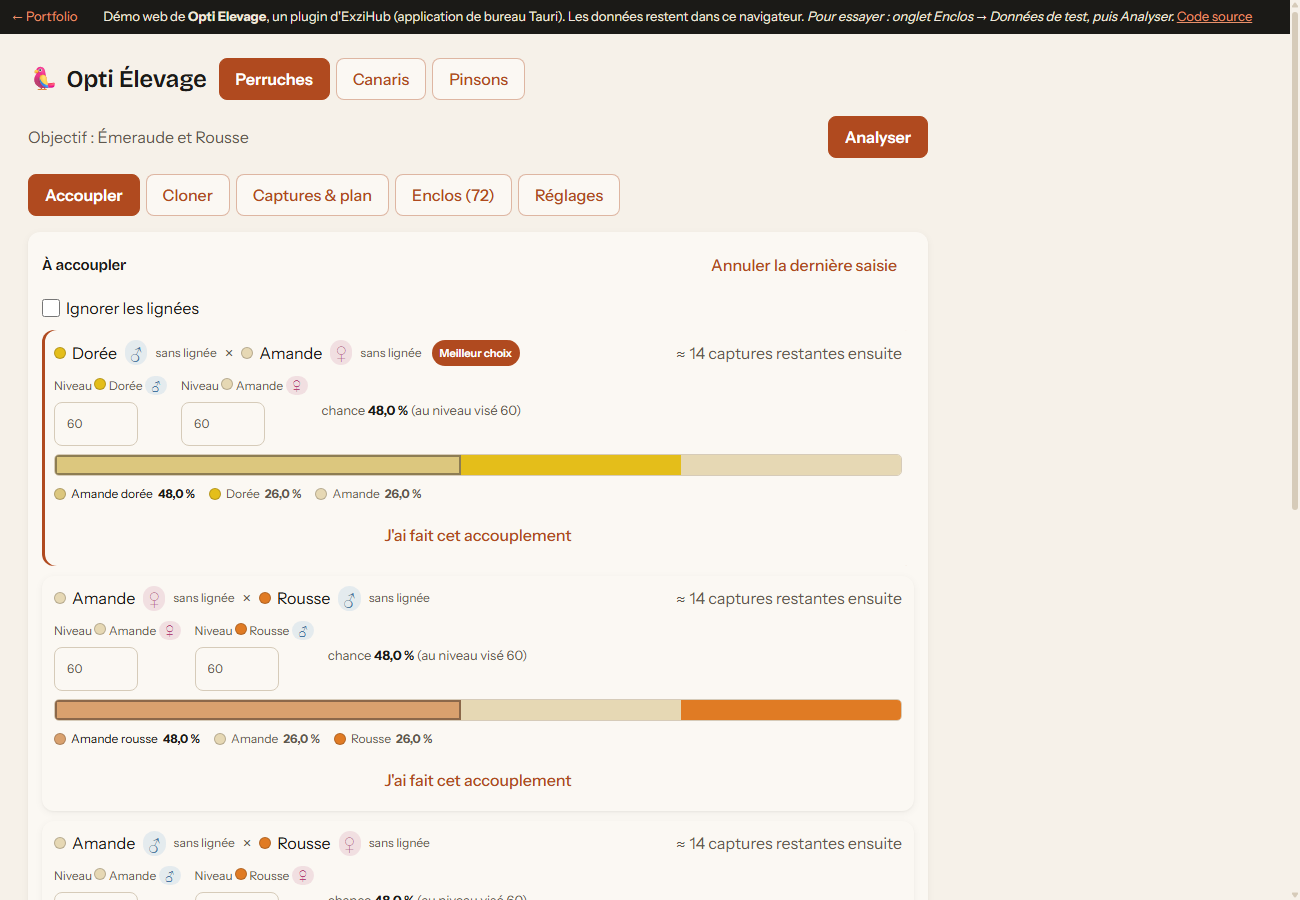
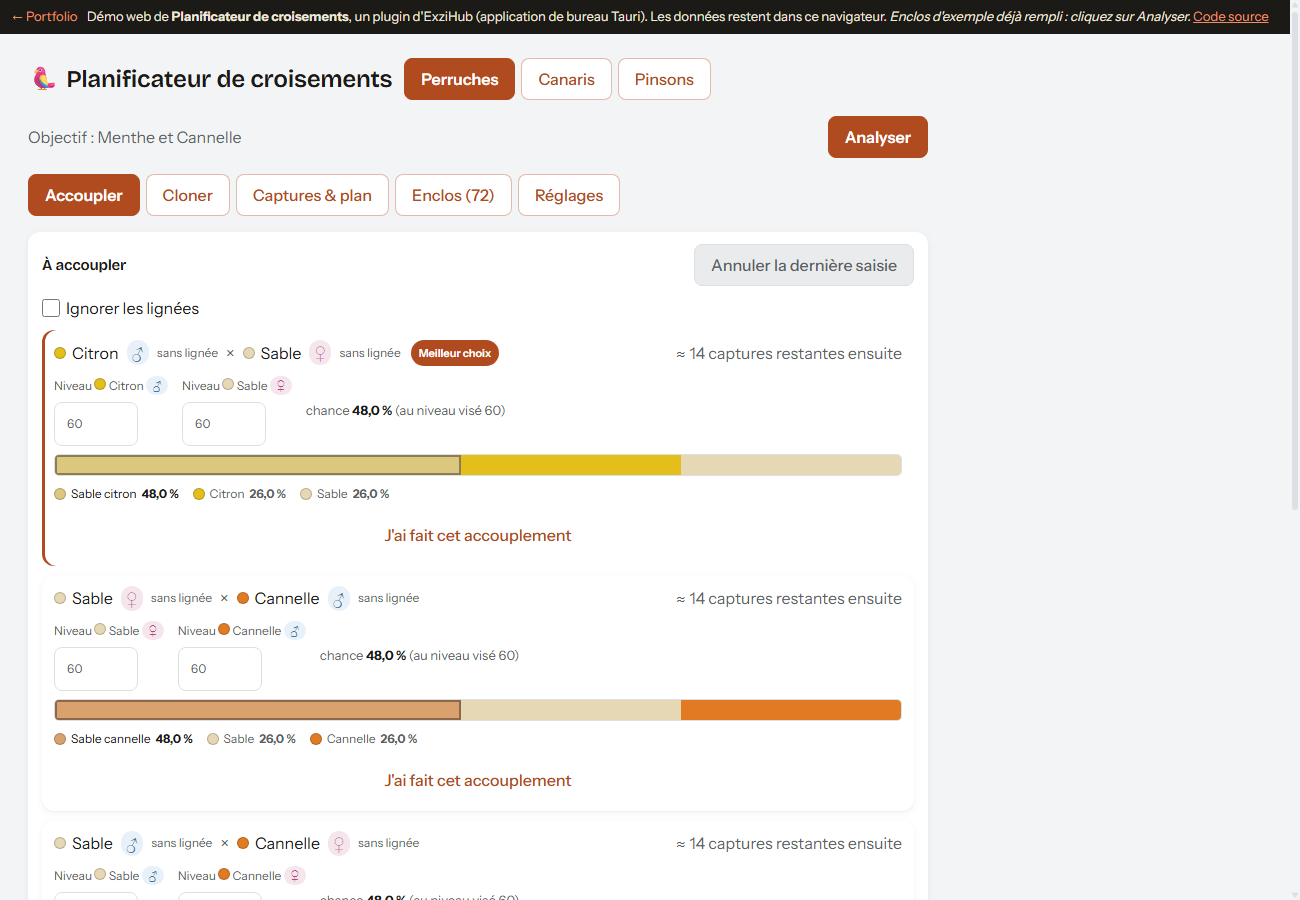
Planificateur de croisements : nouveau nom, couleurs neutres, enclos d'exemple prérempli

diff --git a/plugins/opti-elevage/index.html b/plugins/opti-elevage/index.html
@@ -3,17 +3,33 @@
   <head>
     <meta charset="UTF-8" />
     <meta name="viewport" content="width=device-width, initial-scale=1" />
-    <title>Opti Elevage (démo)</title>
+    <title>Planificateur de croisements (démo)</title>
     <link rel="stylesheet" href="./theme-vitrine.css" />
+    <link rel="icon" href="/favicon.svg" type="image/svg+xml" />
   </head>
   <body>
     <div class="bandeau-demo">
       <a class="retour" href="/">← Portfolio</a>
-      Démo web de <strong>Opti Elevage</strong>, un plugin d'ExziHub (application de bureau Tauri).
-      Les données restent dans ce navigateur. <em>Pour essayer : onglet Enclos → Données de test, puis Analyser.</em> <a href="https://github.com/Exzitech/opti-elevage">Code source</a>
+      Démo web de <strong>Planificateur de croisements</strong>, un plugin d'ExziHub (application de bureau Tauri).
+      Les données restent dans ce navigateur. <em>Enclos d'exemple déjà rempli : cliquez sur Analyser.</em> <a href="https://github.com/Exzitech/planificateur-croisements">Code source</a>
     </div>
     <div id="root"></div>
-    
+    <script>
+      // Donnees fictives de demo.json, posees a la premiere visite seulement.
+      (() => {
+        const demo = {"opti-elevage:fichier":"{\n  \"enclos:perruches\": [\n    {\n      \"couleur\": \"R\",\n      \"sexe\": 0,\n      \"fertile\": true,\n      \"niveau\": 1,\n      \"parents\": [],\n      \"quantite\": 6,\n      \"id\": \"gmum2xs910\",\n      \"enAttente\": false\n    },\n    {\n      \"couleur\": \"R\",\n      \"sexe\": 1,\n      \"fertile\": true,\n      \"niveau\": 1,\n      \"parents\": [],\n      \"quantite\": 6,\n      \"id\": \"gmum2xs911\",\n      \"enAttente\": false\n    },\n    {\n      \"couleur\": \"R\",\n      \"sexe\": 0,\n      \"fertile\": true,\n      \"enAttente\": true,\n      \"niveau\": 1,\n      \"parents\": [],\n      \"quantite\": 2,\n      \"id\": \"gmum2xs912\"\n    },\n    {\n      \"couleur\": \"R\",\n      \"sexe\": 1,\n      \"fertile\": true,\n      \"enAttente\": true,\n      \"niveau\": 1,\n      \"parents\": [],\n      \"quantite\": 2,\n      \"id\": \"gmum2xs913\"\n    },\n    {\n      \"couleur\": \"R\",\n      \"sexe\": 0,\n      \"fertile\": false,\n      \"niveau\": 1,\n      \"parents\": [],\n      \"quantite\": 3,\n      \"id\": \"gmum2xs914\"\n    },\n    {\n      \"couleur\": \"R\",\n      \"sexe\": 1,\n      \"fertile\": false,\n      \"niveau\": 1,\n      \"parents\": [],\n      \"quantite\": 3,\n      \"id\": \"gmum2xs915\"\n    },\n    {\n      \"couleur\": \"D\",\n      \"sexe\": 0,\n      \"fertile\": true,\n      \"niveau\": 1,\n      \"parents\": [],\n      \"quantite\": 7,\n      \"id\": \"gmum2xs916\",\n      \"enAttente\": false\n    },\n    {\n      \"couleur\": \"D\",\n      \"sexe\": 1,\n      \"fertile\": true,\n      \"niveau\": 1,\n      \"parents\": [],\n      \"quantite\": 7,\n      \"id\": \"gmum2xs917\",\n      \"enAttente\": false\n    },\n    {\n      \"couleur\": \"D\",\n      \"sexe\": 0,\n      \"fertile\": true,\n      \"enAttente\": true,\n      \"niveau\": 1,\n      \"parents\": [],\n      \"quantite\": 2,\n      \"id\": \"gmum2xs918\"\n    },\n    {\n      \"couleur\": \"D\",\n      \"sexe\": 1,\n      \"fertile\": true,\n      \"enAttente\": true,\n      \"niveau\": 1,\n      \"parents\": [],\n      \"quantite\": 2,\n      \"id\": \"gmum2xs919\"\n    },\n    {\n      \"couleur\": \"D\",\n      \"sexe\": 0,\n      \"fertile\": false,\n      \"niveau\": 1,\n      \"parents\": [],\n      \"quantite\": 3,\n      \"id\": \"gmum2xs91a\"\n    },\n    {\n      \"couleur\": \"D\",\n      \"sexe\": 1,\n      \"fertile\": false,\n      \"niveau\": 1,\n      \"parents\": [],\n      \"quantite\": 3,\n      \"id\": \"gmum2xs91b\"\n    },\n    {\n      \"couleur\": \"A\",\n      \"sexe\": 0,\n      \"fertile\": true,\n      \"niveau\": 1,\n      \"parents\": [],\n      \"quantite\": 8,\n      \"id\": \"gmum2xs91c\",\n      \"enAttente\": false\n    },\n    {\n      \"couleur\": \"A\",\n      \"sexe\": 1,\n      \"fertile\": true,\n      \"niveau\": 1,\n      \"parents\": [],\n      \"quantite\": 8,\n      \"id\": \"gmum2xs91d\",\n      \"enAttente\": false\n    },\n    {\n      \"couleur\": \"A\",\n      \"sexe\": 0,\n      \"fertile\": true,\n      \"enAttente\": true,\n      \"niveau\": 1,\n      \"parents\": [],\n      \"quantite\": 2,\n      \"id\": \"gmum2xs91e\"\n    },\n    {\n      \"couleur\": \"A\",\n      \"sexe\": 1,\n      \"fertile\": true,\n      \"enAttente\": true,\n      \"niveau\": 1,\n      \"parents\": [],\n      \"quantite\": 2,\n      \"id\": \"gmum2xs91f\"\n    },\n    {\n      \"couleur\": \"A\",\n      \"sexe\": 0,\n      \"fertile\": false,\n      \"niveau\": 1,\n      \"parents\": [],\n      \"quantite\": 3,\n      \"id\": \"gmum2xs91g\"\n    },\n    {\n      \"couleur\": \"A\",\n      \"sexe\": 1,\n      \"fertile\": false,\n      \"niveau\": 1,\n      \"parents\": [],\n      \"quantite\": 3,\n      \"id\": \"gmum2xs91h\"\n    }\n  ]\n}","sync:opti-elevage/elevage.json":"{\"texte\": \"{\\n  \\\"enclos:perruches\\\": [\\n    {\\n      \\\"couleur\\\": \\\"R\\\",\\n      \\\"sexe\\\": 0,\\n      \\\"fertile\\\": true,\\n      \\\"niveau\\\": 1,\\n      \\\"parents\\\": [],\\n      \\\"quantite\\\": 6,\\n      \\\"id\\\": \\\"gmum2xs910\\\",\\n      \\\"enAttente\\\": false\\n    },\\n    {\\n      \\\"couleur\\\": \\\"R\\\",\\n      \\\"sexe\\\": 1,\\n      \\\"fertile\\\": true,\\n      \\\"niveau\\\": 1,\\n      \\\"parents\\\": [],\\n      \\\"quantite\\\": 6,\\n      \\\"id\\\": \\\"gmum2xs911\\\",\\n      \\\"enAttente\\\": false\\n    },\\n    {\\n      \\\"couleur\\\": \\\"R\\\",\\n      \\\"sexe\\\": 0,\\n      \\\"fertile\\\": true,\\n      \\\"enAttente\\\": true,\\n      \\\"niveau\\\": 1,\\n      \\\"parents\\\": [],\\n      \\\"quantite\\\": 2,\\n      \\\"id\\\": \\\"gmum2xs912\\\"\\n    },\\n    {\\n      \\\"couleur\\\": \\\"R\\\",\\n      \\\"sexe\\\": 1,\\n      \\\"fertile\\\": true,\\n      \\\"enAttente\\\": true,\\n      \\\"niveau\\\": 1,\\n      \\\"parents\\\": [],\\n      \\\"quantite\\\": 2,\\n      \\\"id\\\": \\\"gmum2xs913\\\"\\n    },\\n    {\\n      \\\"couleur\\\": \\\"R\\\",\\n      \\\"sexe\\\": 0,\\n      \\\"fertile\\\": false,\\n      \\\"niveau\\\": 1,\\n      \\\"parents\\\": [],\\n      \\\"quantite\\\": 3,\\n      \\\"id\\\": \\\"gmum2xs914\\\"\\n    },\\n    {\\n      \\\"couleur\\\": \\\"R\\\",\\n      \\\"sexe\\\": 1,\\n      \\\"fertile\\\": false,\\n      \\\"niveau\\\": 1,\\n      \\\"parents\\\": [],\\n      \\\"quantite\\\": 3,\\n      \\\"id\\\": \\\"gmum2xs915\\\"\\n    },\\n    {\\n      \\\"couleur\\\": \\\"D\\\",\\n      \\\"sexe\\\": 0,\\n      \\\"fertile\\\": true,\\n      \\\"niveau\\\": 1,\\n      \\\"parents\\\": [],\\n      \\\"quantite\\\": 7,\\n      \\\"id\\\": \\\"gmum2xs916\\\",\\n      \\\"enAttente\\\": false\\n    },\\n    {\\n      \\\"couleur\\\": \\\"D\\\",\\n      \\\"sexe\\\": 1,\\n      \\\"fertile\\\": true,\\n      \\\"niveau\\\": 1,\\n      \\\"parents\\\": [],\\n      \\\"quantite\\\": 7,\\n      \\\"id\\\": \\\"gmum2xs917\\\",\\n      \\\"enAttente\\\": false\\n    },\\n    {\\n      \\\"couleur\\\": \\\"D\\\",\\n      \\\"sexe\\\": 0,\\n      \\\"fertile\\\": true,\\n      \\\"enAttente\\\": true,\\n      \\\"niveau\\\": 1,\\n      \\\"parents\\\": [],\\n      \\\"quantite\\\": 2,\\n      \\\"id\\\": \\\"gmum2xs918\\\"\\n    },\\n    {\\n      \\\"couleur\\\": \\\"D\\\",\\n      \\\"sexe\\\": 1,\\n      \\\"fertile\\\": true,\\n      \\\"enAttente\\\": true,\\n      \\\"niveau\\\": 1,\\n      \\\"parents\\\": [],\\n      \\\"quantite\\\": 2,\\n      \\\"id\\\": \\\"gmum2xs919\\\"\\n    },\\n    {\\n      \\\"couleur\\\": \\\"D\\\",\\n      \\\"sexe\\\": 0,\\n      \\\"fertile\\\": false,\\n      \\\"niveau\\\": 1,\\n      \\\"parents\\\": [],\\n      \\\"quantite\\\": 3,\\n      \\\"id\\\": \\\"gmum2xs91a\\\"\\n    },\\n    {\\n      \\\"couleur\\\": \\\"D\\\",\\n      \\\"sexe\\\": 1,\\n      \\\"fertile\\\": false,\\n      \\\"niveau\\\": 1,\\n      \\\"parents\\\": [],\\n      \\\"quantite\\\": 3,\\n      \\\"id\\\": \\\"gmum2xs91b\\\"\\n    },\\n    {\\n      \\\"couleur\\\": \\\"A\\\",\\n      \\\"sexe\\\": 0,\\n      \\\"fertile\\\": true,\\n      \\\"niveau\\\": 1,\\n      \\\"parents\\\": [],\\n      \\\"quantite\\\": 8,\\n      \\\"id\\\": \\\"gmum2xs91c\\\",\\n      \\\"enAttente\\\": false\\n    },\\n    {\\n      \\\"couleur\\\": \\\"A\\\",\\n      \\\"sexe\\\": 1,\\n      \\\"fertile\\\": true,\\n      \\\"niveau\\\": 1,\\n      \\\"parents\\\": [],\\n      \\\"quantite\\\": 8,\\n      \\\"id\\\": \\\"gmum2xs91d\\\",\\n      \\\"enAttente\\\": false\\n    },\\n    {\\n      \\\"couleur\\\": \\\"A\\\",\\n      \\\"sexe\\\": 0,\\n      \\\"fertile\\\": true,\\n      \\\"enAttente\\\": true,\\n      \\\"niveau\\\": 1,\\n      \\\"parents\\\": [],\\n      \\\"quantite\\\": 2,\\n      \\\"id\\\": \\\"gmum2xs91e\\\"\\n    },\\n    {\\n      \\\"couleur\\\": \\\"A\\\",\\n      \\\"sexe\\\": 1,\\n      \\\"fertile\\\": true,\\n      \\\"enAttente\\\": true,\\n      \\\"niveau\\\": 1,\\n      \\\"parents\\\": [],\\n      \\\"quantite\\\": 2,\\n      \\\"id\\\": \\\"gmum2xs91f\\\"\\n    },\\n    {\\n      \\\"couleur\\\": \\\"A\\\",\\n      \\\"sexe\\\": 0,\\n      \\\"fertile\\\": false,\\n      \\\"niveau\\\": 1,\\n      \\\"parents\\\": [],\\n      \\\"quantite\\\": 3,\\n      \\\"id\\\": \\\"gmum2xs91g\\\"\\n    },\\n    {\\n      \\\"couleur\\\": \\\"A\\\",\\n      \\\"sexe\\\": 1,\\n      \\\"fertile\\\": false,\\n      \\\"niveau\\\": 1,\\n      \\\"parents\\\": [],\\n      \\\"quantite\\\": 3,\\n      \\\"id\\\": \\\"gmum2xs91h\\\"\\n    }\\n  ]\\n}\", \"version\": \"1\"}"};
+        const d = new Date();
+        const mois = (m) => { const x = new Date(d.getFullYear(), d.getMonth() - m, 1); return x.getFullYear() + "-" + String(x.getMonth() + 1).padStart(2, "0"); };
+        const jetons = (t) => t.replaceAll("{{MOIS}}", mois(0)).replaceAll("{{MOIS-1}}", mois(1));
+        try {
+          if (localStorage.getItem("demo:posee:opti-elevage")) return;
+          for (const [cle, v] of Object.entries(demo)) {
+            localStorage.setItem(cle, jetons(typeof v === "string" ? v : JSON.stringify(v)));
+          }
+          localStorage.setItem("demo:posee:opti-elevage", "1");
+        } catch (e) { console.error("demo.json non applique", e); }
+      })();
+    </script>
     <script type="module" src="./src/dev.tsx"></script>
   </body>
 </html>

diff --git a/plugins/opti-elevage/tests/croisement.test.ts b/plugins/opti-elevage/tests/croisement.test.ts
@@ -7,15 +7,15 @@ import { config, bete, pourcent } from "./aide";
  * Ce sont elles qui calibrent gpF et gpDecay : si elles cassent, c'est le modele qui
  * a bouge, pas un detail d'implementation.
  */
-describe("capture du jeu : Pourpre niv.200 x Émeraude niv.1", () => {
-  // EmP « Émeraude et Pourpre », generation 10, telle que le jeu l'affiche.
+describe("capture du jeu : Cerise niv.200 x Menthe niv.1", () => {
+  // EmP « Menthe et Cerise », generation 10, telle que le jeu l'affiche.
   const avecEmP = (opt: number) => config("EmP = Em + P", ["EmP"], { levelPlan: 1, opt });
 
-  const pourpre = bete("P", { sexe: 1, niveau: 200 });
-  const emeraude = bete("Em", { sexe: 0, niveau: 1, parents: ["IT", "IvP"] });
+  const cerise = bete("P", { sexe: 1, niveau: 200 });
+  const menthe = bete("Em", { sexe: 0, niveau: 1, parents: ["IT", "IvP"] });
 
   it("sans Optimakina", () => {
-    const { list, P } = croisement(pourpre, emeraude, avecEmP(0));
+    const { list, P } = croisement(cerise, menthe, avecEmP(0));
     expect(P * 100).toBeCloseTo(60.15, 1);
     expect(pourcent(list, "EmP")).toBeCloseTo(60.15, 1);
     expect(pourcent(list, "P")).toBeCloseTo(19.92, 1);
@@ -25,7 +25,7 @@ describe("capture du jeu : Pourpre niv.200 x Émeraude niv.1", () => {
   });
 
   it("avec Optimakina (+10 %)", () => {
-    const { list, P } = croisement(pourpre, emeraude, avecEmP(0.1));
+    const { list, P } = croisement(cerise, menthe, avecEmP(0.1));
     expect(P * 100).toBeCloseTo(70.15, 1);
     expect(pourcent(list, "EmP")).toBeCloseTo(70.15, 1);
     expect(pourcent(list, "P")).toBeCloseTo(14.92, 1);
@@ -35,16 +35,16 @@ describe("capture du jeu : Pourpre niv.200 x Émeraude niv.1", () => {
   });
 
   it("la somme des probabilites vaut 1", () => {
-    const { list } = croisement(pourpre, emeraude, avecEmP(0));
+    const { list } = croisement(cerise, menthe, avecEmP(0));
     expect(list.reduce((s, o) => s + o.p, 0)).toBeCloseTo(1, 10);
   });
 });
 
-describe("capture du jeu : Rousse niv.65 (de Amande + Rousse) x Dorée niv.55", () => {
+describe("capture du jeu : Cannelle niv.65 (de Sable + Cannelle) x Citron niv.55", () => {
   const cfg = config("", [], { levelPlan: 1 });
-  const rousse = bete("R", { sexe: 0, niveau: 65, parents: ["A", "R"] });
-  const doree = bete("D", { sexe: 1, niveau: 55 });
-  const { list, cibles, partage } = croisement(rousse, doree, cfg);
+  const cannelle = bete("R", { sexe: 0, niveau: 65, parents: ["A", "R"] });
+  const citron = bete("D", { sexe: 1, niveau: 55 });
+  const { list, cibles, partage } = croisement(cannelle, citron, cfg);
 
   it("les deux couleurs cibles et les autres", () => {
     expect(pourcent(list, "DR")).toBeCloseTo(34.91, 1);
@@ -54,14 +54,14 @@ describe("capture du jeu : Rousse niv.65 (de Amande + Rousse) x Dorée niv.55", 
     expect(pourcent(list, "A")).toBeCloseTo(7.1, 1);
   });
 
-  it("la chance est partagee entre Doree rousse et Amande doree", () => {
+  it("la chance est partagee entre Citron cannelle et Sable citron", () => {
     expect(partage).toBe(true);
     expect([...cibles].sort()).toEqual(["AD", "DR"]);
   });
 });
 
 describe("croisement", () => {
-  it("TO x IT niveau 1 : Prune a 30,3 %", () => {
+  it("TO x IT niveau 1 : Figue a 30,3 %", () => {
     const cfg = config("", [], { levelPlan: 1 });
     const { list } = croisement(bete("TO", { sexe: 0 }), bete("IT", { sexe: 1 }), cfg);
     expect(list.reduce((s, o) => s + o.p, 0)).toBeCloseTo(1, 10);

diff --git a/plugins/opti-elevage/tests/simulation.test.ts b/plugins/opti-elevage/tests/simulation.test.ts
@@ -34,7 +34,7 @@ const PARTIES = 2000;
  * moteur a deplace les resultats, pour qu'on le fasse en connaissance de cause.
  */
 describe("simulation de reference (enclos vide, niveau visé 60)", () => {
-  it("objectif génération 10 : Émeraude et Rousse", () => {
+  it("objectif génération 10 : Menthe et Cannelle", () => {
     const cfg = config("EmR = Em + R", ["EmR"]);
     const r = jouer(cfg, ["EmR"], PARTIES);
     expect(r.parties).toBe(PARTIES);
@@ -53,13 +53,13 @@ describe("simulation de reference (enclos vide, niveau visé 60)", () => {
     expect(r.clonages).toBeLessThan(377 * 1.1);
   });
 
-  it("objectif génération 9 : prune et émeraude", () => {
+  it("objectif génération 9 : figue et menthe", () => {
     const r = jouer(config(), ["Pr", "Em"], PARTIES);
     expect(r.total).toBeGreaterThan(64);
     expect(r.total).toBeLessThan(76);
   });
 
-  it("objectif génération 9 : émeraude seule", () => {
+  it("objectif génération 9 : menthe seule", () => {
     const r = jouer(config(), ["Em"], PARTIES);
     expect(r.total).toBeGreaterThan(56);
     expect(r.total).toBeLessThan(68);
@@ -96,15 +96,15 @@ describe("cas limites", () => {
 
   it("cloner deux stériles de même couleur donne toujours cette couleur", () => {
     const cfg = config();
-    // Deux Émeraude steriles, et rien d'autre : la seule action possible est
-    // le clonage, qui doit produire une Émeraude a coup sur.
+    // Deux Menthe steriles, et rien d'autre : la seule action possible est
+    // le clonage, qui doit produire une Menthe a coup sur.
     const depart = deplier([groupe("Em", { quantite: 2, fertile: false })]);
     for (let i = 0; i < 200; i++) {
       const r = simuler(cfg, depart, ["Em"], null, mulberry32(i));
       // L'objectif est deja la (sterile) : aucune capture, aucun clonage force.
       expect(r?.parCouleur.R).toBe(0);
     }
-    // Force le besoin : objectif Prune, dont la recette exige des fertiles.
+    // Force le besoin : objectif Figue, dont la recette exige des fertiles.
     const r = simuler(cfg, depart, ["Em"], null, mulberry32(7));
     expect(r).not.toBeNull();
   });
@@ -114,7 +114,7 @@ describe("cas limites", () => {
     const r = simuler(cfg, deplier([]), ["DR"], null, mulberry32(1));
     expect(r).not.toBeNull();
     expect(Object.keys(r!.parCouleur).sort()).toEqual(["A", "D", "R"]);
-    // DR = R + D : deux captures au minimum, aucune Amande.
+    // DR = R + D : deux captures au minimum, aucune Sable.
     expect(r!.parCouleur.R + r!.parCouleur.D).toBeGreaterThanOrEqual(2);
   });
 });
@@ -132,7 +132,7 @@ describe("analyser", () => {
     expect(a.atteint).toBe(false);
     expect(a.baseline).toBeDefined();
     expect(a.candidats?.length).toBeGreaterThan(0);
-    // TO x IT donne directement la Prune : ce doit etre le meilleur choix.
+    // TO x IT donne directement la Figue : ce doit etre le meilleur choix.
     expect(a.candidats?.[0].enfant).toBe("Pr");
     // Classement croissant par captures moyennes.
     const totaux = a.candidats!.map((c) => c.resume.total.moyenne);

diff --git a/plugins/opti-elevage/src/engine/especes/perruches.ts b/plugins/opti-elevage/src/engine/especes/perruches.ts
@@ -3,27 +3,27 @@ import type { EspeceBrute } from "./types";
 
 /** Les 21 couleurs du jeu, dans l'ordre des generations. */
 const COULEURS: readonly Couleur[] = [
-  { id: "R", nom: "Rousse", hex: "#E07B24" },
-  { id: "D", nom: "Dorée", hex: "#E4BE1A" },
-  { id: "A", nom: "Amande", hex: "#E6D8B4" },
-  { id: "DR", nom: "Dorée rousse", hex: "#E9A02E" },
-  { id: "AD", nom: "Amande dorée", hex: "#DCC77E" },
-  { id: "AR", nom: "Amande rousse", hex: "#D9A16E" },
-  { id: "Eb", nom: "Ébène", hex: "#2B2320" },
-  { id: "In", nom: "Indigo", hex: "#4D2E93" },
-  { id: "EI", nom: "Ébène indigo", hex: "#2F2352" },
-  { id: "O", nom: "Orchidée", hex: "#D3A0E0" },
-  { id: "P", nom: "Pourpre", hex: "#C2183F" },
-  { id: "EO", nom: "Ébène orchidée", hex: "#B45FCE" },
-  { id: "OP", nom: "Orchidée pourpre", hex: "#A63B86" },
-  { id: "InP", nom: "Indigo pourpre", hex: "#6E2A9E" },
-  { id: "T", nom: "Turquoise", hex: "#2EC4BF" },
-  { id: "I", nom: "Ivoire", hex: "#F1EDE4" },
-  { id: "TO", nom: "Turquoise orchidée", hex: "#5CC9D6" },
-  { id: "IT", nom: "Ivoire turquoise", hex: "#BFE6E0" },
-  { id: "IvP", nom: "Ivoire pourpre", hex: "#E9A7B6" },
-  { id: "Pr", nom: "Prune", hex: "#B98BD0" },
-  { id: "Em", nom: "Émeraude", hex: "#31BD4E" },
+  { id: "R", nom: "Cannelle", hex: "#E07B24" },
+  { id: "D", nom: "Citron", hex: "#E4BE1A" },
+  { id: "A", nom: "Sable", hex: "#E6D8B4" },
+  { id: "DR", nom: "Citron cannelle", hex: "#E9A02E" },
+  { id: "AD", nom: "Sable citron", hex: "#DCC77E" },
+  { id: "AR", nom: "Sable cannelle", hex: "#D9A16E" },
+  { id: "Eb", nom: "Ardoise", hex: "#2B2320" },
+  { id: "In", nom: "Nuit", hex: "#4D2E93" },
+  { id: "EI", nom: "Ardoise nuit", hex: "#2F2352" },
+  { id: "O", nom: "Lilas", hex: "#D3A0E0" },
+  { id: "P", nom: "Cerise", hex: "#C2183F" },
+  { id: "EO", nom: "Ardoise lilas", hex: "#B45FCE" },
+  { id: "OP", nom: "Lilas cerise", hex: "#A63B86" },
+  { id: "InP", nom: "Nuit cerise", hex: "#6E2A9E" },
+  { id: "T", nom: "Lagon", hex: "#2EC4BF" },
+  { id: "I", nom: "Nacre", hex: "#F1EDE4" },
+  { id: "TO", nom: "Lagon lilas", hex: "#5CC9D6" },
+  { id: "IT", nom: "Nacre lagon", hex: "#BFE6E0" },
+  { id: "IvP", nom: "Nacre cerise", hex: "#E9A7B6" },
+  { id: "Pr", nom: "Figue", hex: "#B98BD0" },
+  { id: "Em", nom: "Menthe", hex: "#31BD4E" },
 ];
 
 /**

diff --git a/plugins/opti-elevage/src/ui/PlanificateurTool.tsx b/plugins/opti-elevage/src/ui/PlanificateurTool.tsx
@@ -51,8 +51,8 @@ function EspaceEspece({ espece }: { espece: Espece }) {
     [espece, objectif, texteRecettes],
   );
 
-  // L'objectif et l'enclos peuvent citer des bicolores libres (Ebene et
-  // Doree...) : on les declare pour que le moteur les connaisse, en plus du
+  // L'objectif et l'enclos peuvent citer des bicolores libres (Ardoise et
+  // Citron...) : on les declare pour que le moteur les connaisse, en plus du
   // vocabulaire propre a l'espece (ses bicolores intermediaires).
   const recettes = useMemo(() => {
     const utilisees = [...couleurs, ...enclos.groupes.flatMap((g) => [g.couleur, ...g.parents])];
@@ -242,7 +242,7 @@ function EspaceEspece({ espece }: { espece: Espece }) {
   );
 }
 
-export function OptiElevageTool() {
+export function PlanificateurTool() {
   // L'espece ouverte reste locale : c'est un choix d'affichage, pas une donnee.
   const [especeId, setEspeceId] = usePersistant("espece", ESPECES[0].id);
   const espece = ESPECES.find((e) => e.id === especeId) ?? ESPECES[0];
@@ -263,7 +263,7 @@ function Ecran({ espece, setEspeceId }: { espece: Espece; setEspeceId: (id: stri
   if (!f.dossier) {
     return (
       <div className="dd">
-        <header className="dd-entete"><h2>{espece.emoji} Opti Élevage</h2></header>
+        <header className="dd-entete"><h2>{espece.emoji} Planificateur de croisements</h2></header>
         <p className="hint">
           Choisis un espace Nextcloud : ton enclos et tes objectifs te suivent d'un appareil a l'autre.
         </p>
@@ -275,7 +275,7 @@ function Ecran({ espece, setEspeceId }: { espece: Espece; setEspeceId: (id: stri
   return (
     <div className="dd">
       <header className="dd-entete">
-        <h2>{espece.emoji} Opti Élevage</h2>
+        <h2>{espece.emoji} Planificateur de croisements</h2>
         <div className="dd-onglets" role="group" aria-label="Espèce">
           {ESPECES.map((e) => (
             <button

diff --git a/plugins/opti-elevage/src/engine/especes/canaris.ts b/plugins/opti-elevage/src/engine/especes/canaris.ts
@@ -10,17 +10,17 @@ import type { EspeceBrute } from "./types";
  * a verifier en jeu.
  */
 const COULEURS: readonly Couleur[] = [
-  { id: "Eb", nom: "Ébène", hex: "#2B2320" },
-  { id: "In", nom: "Indigo", hex: "#4D2E93" },
-  { id: "Po", nom: "Pourpre", hex: "#C2183F" },
-  { id: "Or", nom: "Orchidée", hex: "#D3A0E0" },
-  { id: "Do", nom: "Doré", hex: "#E4BE1A" },
-  { id: "Ro", nom: "Roux", hex: "#E07B24" },
-  { id: "Am", nom: "Amande", hex: "#E6D8B4" },
-  { id: "Iv", nom: "Ivoire", hex: "#F1EDE4" },
-  { id: "Tu", nom: "Turquoise", hex: "#2EC4BF" },
-  { id: "Pr", nom: "Prune", hex: "#B98BD0" },
-  { id: "Em", nom: "Émeraude", hex: "#31BD4E" },
+  { id: "Eb", nom: "Ardoise", hex: "#2B2320" },
+  { id: "In", nom: "Nuit", hex: "#4D2E93" },
+  { id: "Po", nom: "Cerise", hex: "#C2183F" },
+  { id: "Or", nom: "Lilas", hex: "#D3A0E0" },
+  { id: "Do", nom: "Citron", hex: "#E4BE1A" },
+  { id: "Ro", nom: "Cannelle", hex: "#E07B24" },
+  { id: "Am", nom: "Sable", hex: "#E6D8B4" },
+  { id: "Iv", nom: "Nacre", hex: "#F1EDE4" },
+  { id: "Tu", nom: "Lagon", hex: "#2EC4BF" },
+  { id: "Pr", nom: "Figue", hex: "#B98BD0" },
+  { id: "Em", nom: "Menthe", hex: "#31BD4E" },
   { id: "Ab", nom: "Ambre", hex: "#C68A1E" },
   { id: "Co", nom: "Corail", hex: "#FF6F59" },
   { id: "Az", nom: "Azur", hex: "#2E7FE0" },
@@ -35,7 +35,7 @@ const COULEURS: readonly Couleur[] = [
  *
  * Seuls les monocolores de generation 3 et plus ont une recette propre ;
  * chacune n'a ici qu'UN des plusieurs croisements possibles listes par le
- * jeu (ex. Roux : 6 combinaisons valables, une seule retenue) : a verifier
+ * jeu (ex. Cannelle : 6 combinaisons valables, une seule retenue) : a verifier
  * en jeu, et modifiable dans les reglages comme pour les Perruches.
  */
 const RECETTES_DEFAUT = `PoDo = Po + Do

diff --git a/plugins/opti-elevage/src/engine/especes/pinsons.ts b/plugins/opti-elevage/src/engine/especes/pinsons.ts
@@ -9,17 +9,17 @@ import type { EspeceBrute } from "./types";
  * Pinsons : hex choisi arbitrairement, a verifier en jeu.
  */
 const COULEURS: readonly Couleur[] = [
-  { id: "Eb", nom: "Ébène", hex: "#2B2320" },
-  { id: "In", nom: "Indigo", hex: "#4D2E93" },
-  { id: "Po", nom: "Pourpre", hex: "#C2183F" },
-  { id: "Or", nom: "Orchidée", hex: "#D3A0E0" },
-  { id: "Ro", nom: "Roux", hex: "#E07B24" },
-  { id: "Am", nom: "Amande", hex: "#E6D8B4" },
-  { id: "Iv", nom: "Ivoire", hex: "#F1EDE4" },
-  { id: "Tu", nom: "Turquoise", hex: "#2EC4BF" },
-  { id: "Pr", nom: "Prune", hex: "#B98BD0" },
-  { id: "Em", nom: "Émeraude", hex: "#31BD4E" },
-  { id: "Do", nom: "Doré", hex: "#E4BE1A" },
+  { id: "Eb", nom: "Ardoise", hex: "#2B2320" },
+  { id: "In", nom: "Nuit", hex: "#4D2E93" },
+  { id: "Po", nom: "Cerise", hex: "#C2183F" },
+  { id: "Or", nom: "Lilas", hex: "#D3A0E0" },
+  { id: "Ro", nom: "Cannelle", hex: "#E07B24" },
+  { id: "Am", nom: "Sable", hex: "#E6D8B4" },
+  { id: "Iv", nom: "Nacre", hex: "#F1EDE4" },
+  { id: "Tu", nom: "Lagon", hex: "#2EC4BF" },
+  { id: "Pr", nom: "Figue", hex: "#B98BD0" },
+  { id: "Em", nom: "Menthe", hex: "#31BD4E" },
+  { id: "Do", nom: "Citron", hex: "#E4BE1A" },
   { id: "Ja", nom: "Jade", hex: "#29A876" },
   { id: "Ru", nom: "Rubis", hex: "#9E1030" },
   { id: "Sa", nom: "Saphir", hex: "#2F5FA8" },

diff --git a/plugins/opti-elevage/tests/enclos.test.ts b/plugins/opti-elevage/tests/enclos.test.ts
@@ -6,7 +6,7 @@ import { groupe } from "./aide";
 
 /**
  * Reproduit ce que fait le store quand on precise le niveau d'une bete d'un
- * groupe : la detacher sans toucher aux autres. Savoir qu'une rousse est
+ * groupe : la detacher sans toucher aux autres. Savoir qu'une cannelle est
  * niveau 120 ne dit rien des vingt-neuf autres.
  */
 function preciserNiveau(liste: Groupe[], id: string, niveau: number): Groupe[] {
@@ -54,7 +54,7 @@ describe("préciser le niveau d'une perruche", () => {
 
 describe("saisie rapide", () => {
   it("ajoute des groupes sans lignée, un par couleur et par état", () => {
-    // Ce que produit la grille pour « 28 rousses mâles fertiles, 2 femelles stériles ».
+    // Ce que produit la grille pour « 28 cannelle mâles fertiles, 2 femelles stériles ».
     const saisis = [
       { couleur: "R", sexe: 0 as const, fertile: true, niveau: 1, parents: [], quantite: 28 },
       { couleur: "R", sexe: 1 as const, fertile: false, niveau: 1, parents: [], quantite: 2 },

diff --git a/plugins/opti-elevage/src/engine/croisement.ts b/plugins/opti-elevage/src/engine/croisement.ts
@@ -16,10 +16,10 @@ import type { Config, Couleur, CouleurId, Croisement, Bete } from "./types";
  *  - Sinon (1 - P), le bebe reprend une couleur de la lignee de l'un des deux
  *    parents, a parts egales entre eux, au prorata des poids.
  *
- * Capture 1 : Rousse niv. 65 (de Amande + Rousse) x Doree niv. 55 : Doree et
- * Rousse 34,91 %, Amande et Doree 13,09 %, Rousse 18,91 %, Doree 25,99 %,
- * Amande 7,1 %  ->  r = 0,6 en generation 1.
- * Capture 2 : Pourpre niv. 200 x Emeraude niv. 1 (de IT + IvP) : r = 0,1335 en
+ * Capture 1 : Cannelle niv. 65 (de Sable + Cannelle) x Citron niv. 55 : Citron et
+ * Cannelle 34,91 %, Sable et Citron 13,09 %, Cannelle 18,91 %, Citron 25,99 %,
+ * Sable 7,1 %  ->  r = 0,6 en generation 1.
+ * Capture 2 : Cerise niv. 200 x Menthe niv. 1 (de IT + IvP) : r = 0,1335 en
  * generation 9.  Entre les deux, `r` est interpole (decroissance exponentielle) :
  * c'est une hypothese, pas une mesure.
  */

diff --git a/plugins/opti-elevage/tests/plan.test.ts b/plugins/opti-elevage/tests/plan.test.ts
@@ -4,7 +4,7 @@ import { config, groupe } from "./aide";
 
 describe("plan par vagues", () => {
   const cfg = config();
-  // Amande rousse (AR) a fabriquer : il y a de l'Amande et de la Rousse fecondes.
+  // Sable cannelle (AR) a fabriquer : il y a de l'Sable et de la Cannelle fecondes.
   const enclos = [
     groupe("A", { sexe: 0, quantite: 3 }),
     groupe("A", { sexe: 1, quantite: 3 }),
@@ -23,7 +23,7 @@ describe("plan par vagues", () => {
     }
   });
 
-  it("le goal compte les parents : au moins une Amande et une Rousse pour une Amande rousse", () => {
+  it("le goal compte les parents : au moins une Sable et une Cannelle pour une Sable cannelle", () => {
     const besoins = Object.fromEntries(a.plan!.besoins.map((b) => [b.couleur, b.moyenne]));
     expect(besoins.A).toBeGreaterThanOrEqual(1);
     expect(besoins.R).toBeGreaterThanOrEqual(1);

diff --git a/plugins/opti-elevage/src/ui/CommentCaMarche.tsx b/plugins/opti-elevage/src/ui/CommentCaMarche.tsx
@@ -21,10 +21,10 @@ export function CommentCaMarche() {
       <h4>Ce qui est vérifié</h4>
       <ul>
         <li>
-          Le calcul des probabilités reproduit deux captures de l'interface du jeu (Rousse ×
-          Dorée avec lignée, Pourpre × Émeraude), au centième de pourcent.
+          Le calcul des probabilités reproduit deux captures de l'interface du jeu (Cannelle ×
+          Citron avec lignée, Cerise × Menthe), au centième de pourcent.
         </li>
-        <li>La recette Émeraude = Ivoire turquoise + Ivoire pourpre est confirmée en jeu.</li>
+        <li>La recette Menthe = Nacre lagon + Nacre cerise est confirmée en jeu.</li>
       </ul>
 
       <h4>Ce qui ne l'est pas</h4>

diff --git a/plugins/opti-elevage/tests/objectif.test.ts b/plugins/opti-elevage/tests/objectif.test.ts
@@ -19,9 +19,9 @@ describe("resoudreObjectif", () => {
 });
 
 describe("catalogue", () => {
-  it("propose Ebene et Doree en generation 4, declarable comme recette", () => {
+  it("propose Ardoise et Citron en generation 4, declarable comme recette", () => {
     const e = catalogue.find((c) => c.id === "EbD");
-    expect(e).toMatchObject({ nom: "Ébène et Dorée", gen: 4 });
+    expect(e).toMatchObject({ nom: "Ardoise et Citron", gen: 4 });
     const { lignes, ids } = recettesBicolores(["EbD", "R"]);
     expect(analyserRecettes(couleurs, `${recettesDefaut}\n${lignes}`, ids).erreurs).toEqual([]);
   });
